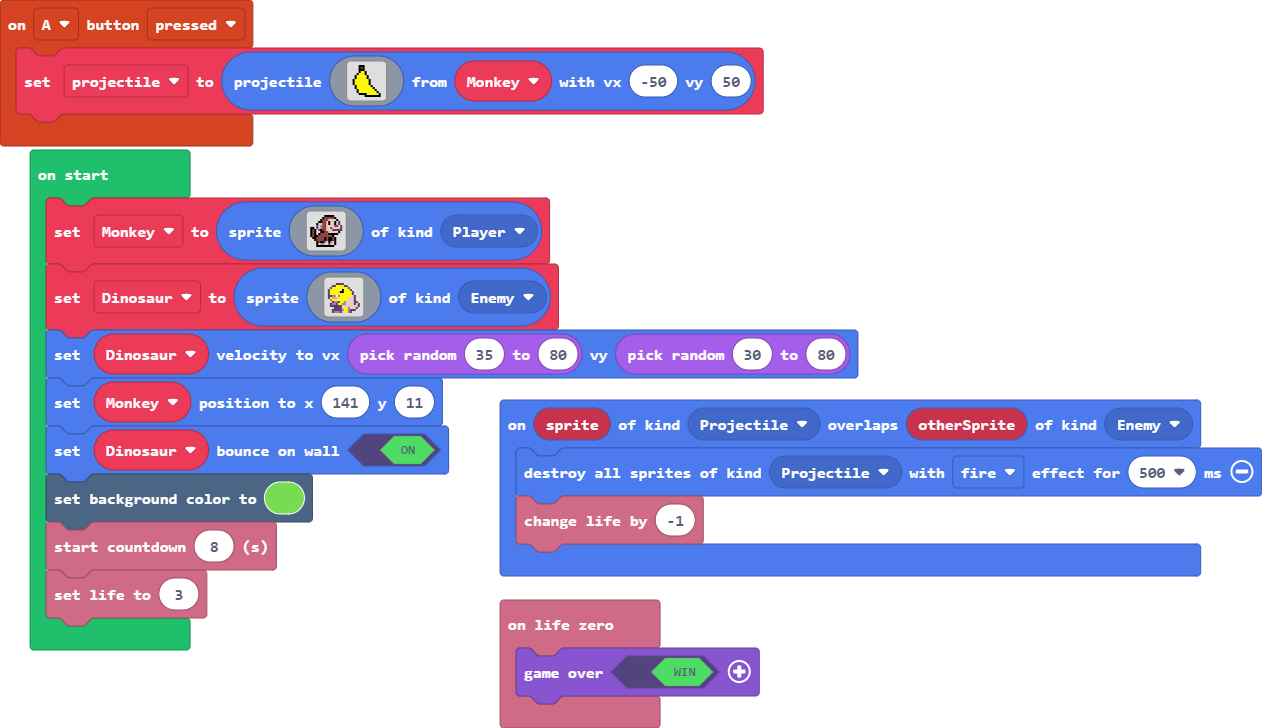
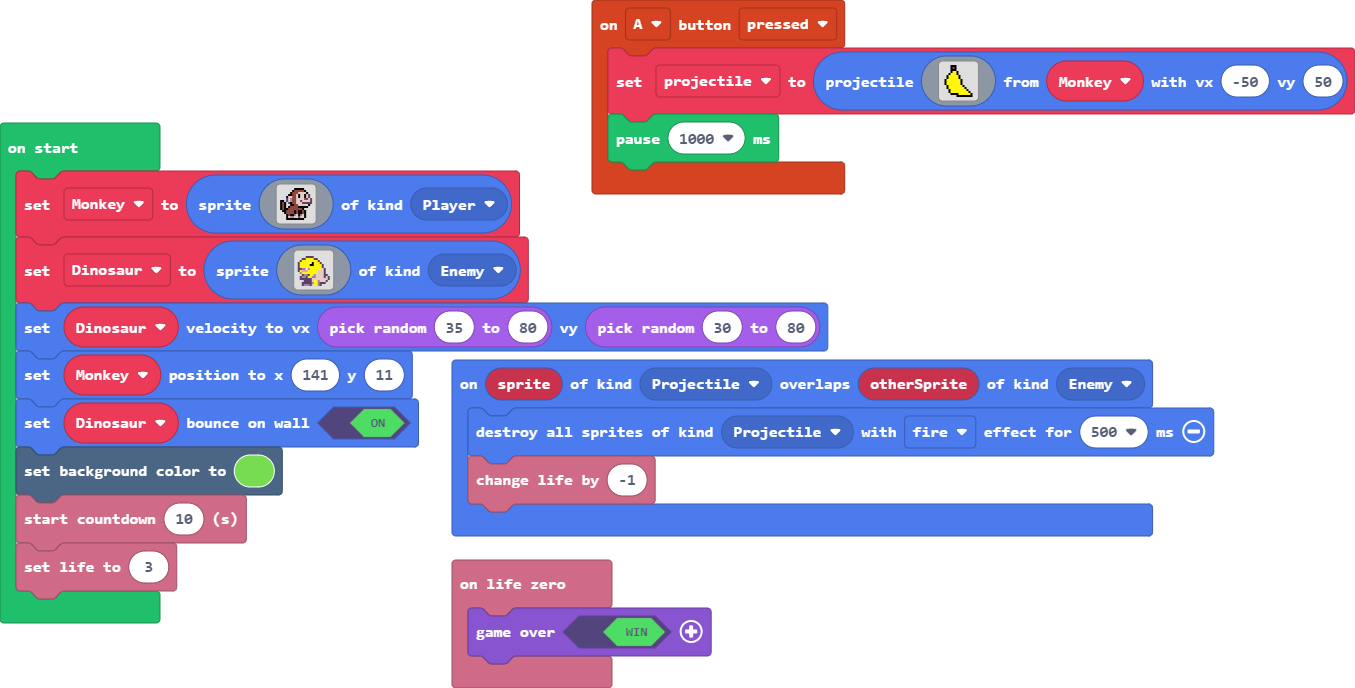
Update main.blocks, main.ts

diff --git a/main.ts b/main.ts
@@ -17,6 +17,7 @@ controller.A.onEvent(ControllerButtonEvent.Pressed, function () {
         . . . . f f f f 5 5 5 5 5 5 f . 
         . . . . . . . f f f f f f f f . 
         `, Monkey, -50, 50)
+    pause(1000)
 })
 info.onLifeZero(function () {
     game.over(true)
@@ -67,5 +68,5 @@ Dinosaur.setVelocity(randint(35, 80), randint(30, 80))
 Monkey.setPosition(141, 11)
 Dinosaur.setBounceOnWall(true)
 scene.setBackgroundColor(7)
-info.startCountdown(8)
+info.startCountdown(10)
 info.setLife(3)
